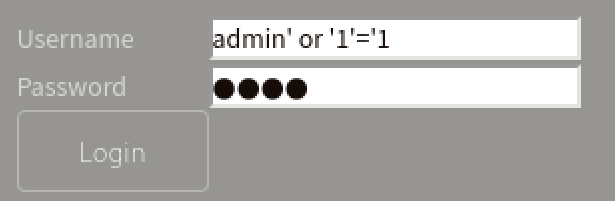
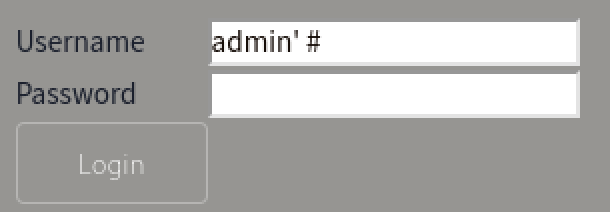
magic.htb prise pied partie 1

diff --git a/content/writeups/magic/index.md b/content/writeups/magic/index.md
@@ -441,20 +441,82 @@ Si aucun vhost distinct n’est identifié, ce fichier confirme l’absence de r
 
 ## Prise pied
 
+La page d’accueil de Magic présente une galerie d’images déjà uploadées sur le site. L’application semble donc proposer une fonctionnalité d’envoi d’images, mais celle-ci n’est pas directement accessible depuis la page principale.
+
+![Page d’accueil de Magic](magic-home-page.png)
+
+En bas à gauche de la page, un lien discret indique :
+
+```text
+Please Login, to upload images.
+```
+
+Cet élément est important : il t’apprend que l’upload d’images existe bien, mais qu’il est réservé aux utilisateurs authentifiés.
+
+L’étape suivante consiste donc à ouvrir la page de connexion afin d’identifier le mécanisme qui protège cette fonctionnalité.
+
+
+
+<img src="magic-login.png" alt="Formulaire de connexion de Magic" class="img-left-60">
+
+Le formulaire est très simple. Il ne contient que deux champs :
+
+```text
+Username
+Password
+```
+
+Tu as donc une application qui expose une fonctionnalité intéressante, l’upload d’images, mais qui impose d’abord une authentification.
+
+La suite de la prise de pied consiste à étudier ce formulaire de connexion pour tenter d’accéder à cette zone protégée.
+
 ### Contournement de l’authentification par injection SQL
 
-Après l’énumération web, le premier point intéressant est le formulaire de connexion de l’application.
+Comme tu ne disposes d’aucun identifiant valide, tu peux commencer par tester quelques couples classiques de connexion.
 
-La page demande un nom d’utilisateur et un mot de passe. À ce stade, il ne faut pas chercher immédiatement un compte valide, mais plutôt observer le comportement de l’application lorsque l’on injecte des caractères spéciaux dans les champs.
+Par exemple :
 
-Les tests sur les champs `username` et `password` montrent un comportement différent selon les entrées envoyées. Certaines valeurs provoquent une redirection ou une réaction inhabituelle de l’application. Ce type de différence est un indice classique d’une possible injection SQL.
+```text
+admin:admin
+admin:password
+root:root
+test:test
+```
 
-En exploitant cette faiblesse, il est possible de contourner l’authentification et d’accéder à la zone d’upload de l’application.
+Ces tentatives ne permettent pas de te connecter. L’application reste sur le formulaire de connexion et affiche un message d’échec.
+
+<img src="magic-wrong-username-or-password.png" alt="Message d’échec de connexion sur Magic" class="img-left-60">
+
+Tu peux ensuite faire un test simple dans le champ `username` en saisissant uniquement une apostrophe :
+
+```text
+'
+```
+
+Ce test ne provoque pas de message d’erreur visible, mais il reste intéressant. Sur un formulaire de connexion, l’apostrophe est un caractère particulier, car elle peut perturber une requête SQL mal protégée. Même sans erreur affichée, ce type de test te met donc sur la piste d’une possible injection SQL.
+
+Pour rester méthodique, tu peux alors t’appuyer sur une liste publique de payloads classiques de contournement d’authentification par injection SQL, comme la cheat sheet publiée par Penetration Testing Lab :
+
+[SQL Injection Authentication Bypass Cheat Sheet](https://pentestlab.blog/2012/12/24/sql-injection-authentication-bypass-cheat-sheet/)
+
+Tu testes ensuite les payloads un par un dans le champ `username`, en laissant le champ `password` vide ou avec une valeur quelconque.
+
+Dans ce cas, le premier payload qui fonctionne est :
+
+```
+admin' #
+```
+
+<img src="magic-injection-sql-simple.png" alt="Injection SQL admin commentée dans le formulaire de connexion Magic" class="img-left-60">
+
+Après validation du formulaire avec ce payload, l’application ne réagit plus comme lors d’un mauvais mot de passe. Cette fois, l’authentification est contournée et tu accèdes à la zone d’upload d’images.
+
+<img src="magic-image-upload.png" alt="Zone d’upload après contournement de l’authentification" class="img-left-60">
 
 La chaîne commence donc par une injection SQL sur le formulaire de connexion :
 
 ```text
-SQL injection → accès à la zone d’upload
+Injection SQL sur le formulaire de connexion → contournement de l’authentification → accès à la zone d’upload
 ```
 
 ### Transformation de l’upload en exécution de commandes
